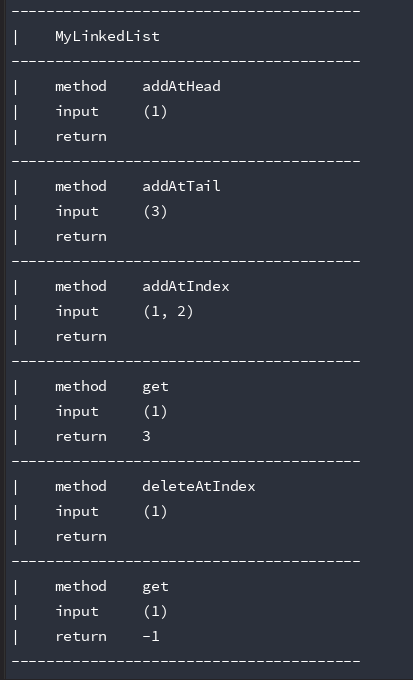
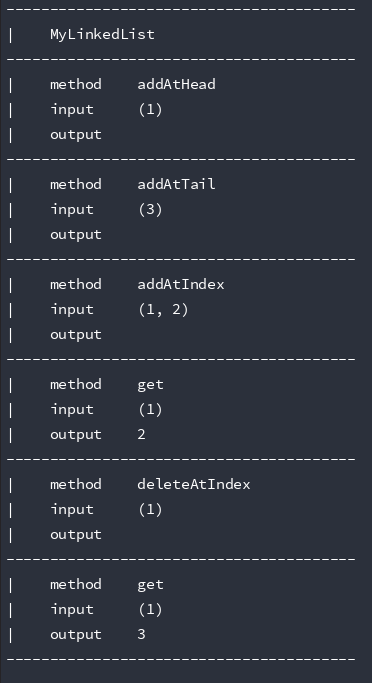
更新输出图

diff --git a/LinkedList/SinglyLinkedList/DesignLinkedList.php b/LinkedList/SinglyLinkedList/DesignLinkedList.php
@@ -167,8 +167,8 @@ class MyLinkedList
 }
 
 return [
-    ["MyLinkedList","addAtHead","addAtHead","get","get","addAtHead","addAtIndex","get","addAtIndex","get","addAtHead","addAtIndex"],
-    [[],[5],[6],[2],[2],[7],[1,3],[2],[2,3],[3],[6],[4,2]]
+    ["MyLinkedList","addAtHead","addAtTail","addAtIndex","get","deleteAtIndex","get"],
+    [[],[1],[3],[1, 2],[1],[1],[1]]
 ];
 
 
